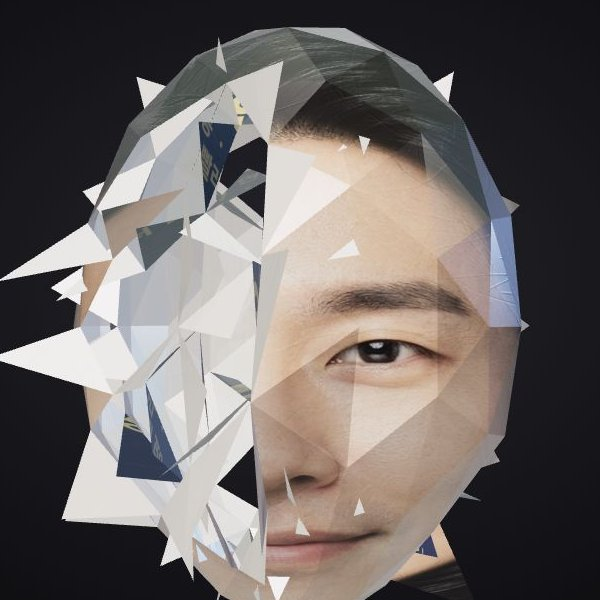
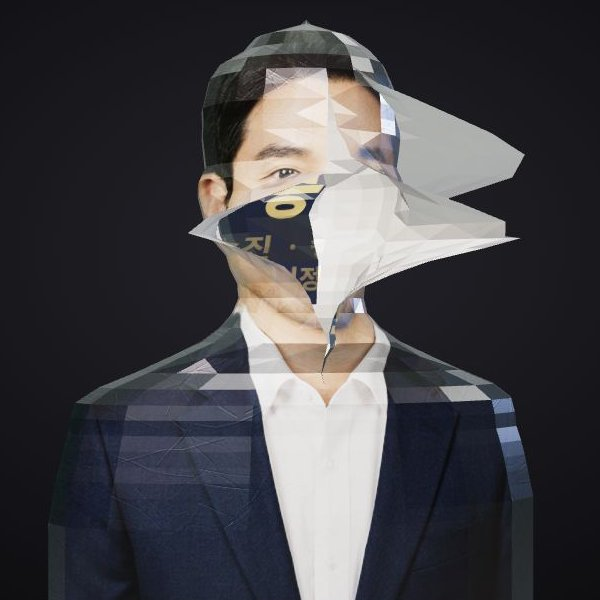
day-261119 상반신 흉상, 포장지를 한 장으로 말려 벗기기

diff --git a/day-261119/main.js b/day-261119/main.js
@@ -1,7 +1,8 @@
 import * as THREE from 'three';
 import { RoomEnvironment } from 'three/addons/environments/RoomEnvironment.js';
+import { PROFILE } from './bust.js?v=1';
 
-const VER = 3;
+const VER = 9;
 const PEOPLE = [
   { k: 'kr', who: '준호 · 32 · 서울', tint: '#1d2a44', ink: '#d9b765', words: ['승진', '인정', '연봉', '더 빨리', '증명'], core: '성공', en: 'SUCCESS' },
   { k: 'wa', who: '코피 · 64 · 아크라', tint: '#4a1a17', ink: '#e8c28a', words: ['이름', '약속', '가문', '부끄럼 없이', '지킨다'], core: '명예', en: 'HONOR' },
@@ -23,11 +24,12 @@ const rim = new THREE.DirectionalLight(0x9fb6ff, 1.2); rim.position.set(4, 1, -3
 scene.add(new THREE.AmbientLight(0xffffff, .25));
 const glow = new THREE.PointLight(0xffd9a0, 0, 4, 1.5); scene.add(glow);
 const head = new THREE.Group(); scene.add(head);
-glow.position.set(0, 0, .1); head.add(glow);
+glow.position.set(0, -.9, .05); head.add(glow);
 
+let baseDist = 8;
 function resize() {
   const w = innerWidth, h = innerHeight; renderer.setSize(w, h, false);
-  camera.aspect = w / h; camera.position.set(0, .05, w / h < .8 ? 8.2 : 5.3); camera.lookAt(0, -.02, 0); camera.updateProjectionMatrix();
+  camera.aspect = w / h; const t = Math.tan(14 * Math.PI / 180); baseDist = Math.max(2.15 / t, 1.55 / (t * camera.aspect)); camera.position.set(0, 0, baseDist); camera.lookAt(0, 0, 0); camera.updateProjectionMatrix();
 }
 addEventListener('resize', resize); resize();
 
@@ -58,41 +60,53 @@ function paperMat(map, opts = {}) {
   return m;
 }
 
-function shape(d) {
-  let x = d.x * .74, y = d.y, z = d.z * .86;
-  if (y < -.3) { const k = Math.min(1, (-y - .3) / .7); x *= 1 - k * .34; z *= 1 - k * .12; }
-  if (z > 0) {
-    const f = Math.min(1, z / .5);
-    z *= .93;
-    z += .2 * Math.exp(-(x * x) / .02 - ((y + .22) ** 2) / .05) * f;
-    z -= .07 * Math.exp(-((Math.abs(x) - .26) ** 2) / .012 - ((y + .02) ** 2) / .01) * f;
-    z += .05 * Math.exp(-(x * x) / .04 - ((y + .86) ** 2) / .02) * f;
+const HT = 3.6, WD = HT * 672 / 900, SEG = 20;
+function buildLayer(prof, inset, map, opts, isFace) {
+  const N = prof.length;
+  let neck = Infinity, neckI = 0;
+  for (let i = Math.floor(N * .2); i < Math.floor(N * .7); i++) if (prof[i][2] < neck) { neck = prof[i][2]; neckI = i; }
+  const top = prof[0][0], chin = prof[neckI][0], S = THREE.MathUtils.smoothstep;
+  const Y = yv => (HT / 2 - yv * HT) * (inset < 1 ? .955 : 1) - (inset < 1 ? .03 : 0);
+  const ring = prof.map(([yv, cx, hw], i) => {
+    const w0 = Math.max(.03, hw * WD), f = THREE.MathUtils.lerp(1.12, .42, S(hw, neck * 1.3, neck * 2.6));
+    return { y: Y(yv), c: (cx - .5) * WD, w0, w: w0 * inset, d: w0 * f * inset, v: 1 - yv, ht: i < neckI ? (yv - top) / (chin - top) : -1 };
+  });
+  const vert = (r, j) => {
+    const R = ring[r], ph = j / SEG * Math.PI * 2, sn = Math.sin(ph), cs = Math.cos(ph);
+    let z = R.d * cs;
+    if (R.ht > 0) z += .17 * inset * Math.exp(-(((R.ht - .6) / .1) ** 2)) * Math.max(0, cs) ** 30;
+    const p = new THREE.Vector3(R.c + R.w * sn, R.y, z);
+    let u = .5 + (R.c + R.w0 * sn) / WD, v = R.v;
+    if (isFace && R.ht >= 0) { const k = S(-cs, .05, .6); u = THREE.MathUtils.lerp(u, .5 + ring[0].c / WD, k); v = THREE.MathUtils.lerp(v, ring[0].v - .025, k); }
+    return [p, u, v, [r, j]];
+  };
+  const raw = [];
+  const tri = (A, B, C, hint, m) => raw.push([A, B, C, hint, m]);
+  for (let r = 0; r < N - 1; r++) for (let j = 0; j < SEG; j++) {
+    const a = vert(r, j), b = vert(r, j + 1), c = vert(r + 1, j + 1), d = vert(r + 1, j), ph = (j + .5) / SEG * Math.PI * 2, h = new THREE.Vector3(Math.sin(ph), 0, Math.cos(ph));
+    const m = { kind: 'side', r, j }; if ((r + j) % 2) { tri(a, d, b, h, m); tri(b, d, c, h, m); } else { tri(a, d, c, h, m); tri(a, c, b, h, m); }
   }
-  return new THREE.Vector3(x, y, z);
-}
-
-function buildLayer(scale, detail, map, opts) {
-  const ico = new THREE.IcosahedronGeometry(1, detail).toNonIndexed();
-  const P = ico.attributes.position, n = P.count, pos = new Float32Array(n * 3), uv = new Float32Array(n * 2), v = new THREE.Vector3();
-  for (let i = 0; i < n; i++) {
-    v.fromBufferAttribute(P, i).normalize();
-    const p = shape(v).multiplyScalar(scale);
-    pos.set([p.x, p.y, p.z], i * 3);
-    const q = p.clone().divideScalar(scale), back = THREE.MathUtils.smoothstep(-q.z, -.1, .45);
-    uv.set([.5 + q.x / 1.7, THREE.MathUtils.lerp(.52 + q.y * .465, .965, back)], i * 2);
-  }
+  const T0 = ring[0], TN = ring[N - 1];
+  const pole = [new THREE.Vector3(T0.c, T0.y + .03, 0), .5 + T0.c / WD, Math.min(.995, T0.v + .01), 'P'];
+  const base = [new THREE.Vector3(TN.c, TN.y, 0), .5 + TN.c / WD, TN.v, 'B'];
+  for (let j = 0; j < SEG; j++) { tri(pole, vert(0, j), vert(0, j + 1), new THREE.Vector3(0, 1, 0), { kind: 'pole', r: 0, j }); tri(base, vert(N - 1, j + 1), vert(N - 1, j), new THREE.Vector3(0, -1, 0), { kind: 'cap', r: N - 2, j }); }
+  const n = raw.length * 3, pos = new Float32Array(n * 3), uv = new Float32Array(n * 2), hints = [], keys = [];
+  raw.forEach(([A, B, C, h], t) => {
+    const nr = B[0].clone().sub(A[0]).cross(C[0].clone().sub(A[0]));
+    if (nr.dot(h) < 0) [B, C] = [C, B];
+    [A, B, C].forEach((q, j) => { pos.set([q[0].x, q[0].y, q[0].z], (t * 3 + j) * 3); uv.set([q[1], q[2]], (t * 3 + j) * 2); });
+    hints.push(h); keys.push([A[3], B[3], C[3]]);
+  });
   const g = new THREE.BufferGeometry();
   g.setAttribute('position', new THREE.BufferAttribute(pos, 3)); g.setAttribute('uv', new THREE.BufferAttribute(uv, 2));
-  const mesh = new THREE.Mesh(g, paperMat(map, opts));
-  const T = n / 3, tris = [];
-  const a = new THREE.Vector3(), b = new THREE.Vector3(), c = new THREE.Vector3();
-  for (let t = 0; t < T; t++) {
-    a.fromArray(pos, t * 9); b.fromArray(pos, t * 9 + 3); c.fromArray(pos, t * 9 + 6);
-    const cen = a.clone().add(b).add(c).divideScalar(3), nrm = b.clone().sub(a).cross(c.clone().sub(a)).normalize();
-    if (nrm.dot(cen) < 0) nrm.negate();
-    tris.push({ idx: t, cen, nrm, orig: pos.slice(t * 9, t * 9 + 9), t0: -1 });
-  }
-  return { mesh, tris, pos, scale, peeled: 0 };
+  const mesh = new THREE.Mesh(g, paperMat(map, opts)), scale = inset;
+  const S2 = SEG / 2;
+  const orig = ring.map((_, r) => Array.from({ length: SEG + 1 }, (_, j) => vert(r, j)[0]));
+  const tris = raw.map(([, , , , m], t) => ({ idx: t, ...m, side: m.j >= S2 ? 0 : 1, keys: keys[t], u: 0 }));
+  const cur = orig.map(row => row.map(p => p.clone()));
+  const uv2 = orig.map(() => new Float32Array(SEG + 1));
+  const P = Array.from({ length: N }, () => [0, 0]), Pd = Array.from({ length: N }, () => [0, 0]);
+  return { mesh, tris, pos, P, Pd, N, S2, orig, cur, uv2, pole: pole[0].clone(), base: base[0].clone(), curl: 1.35, curlGoal: 1.35, late: 0, ph: Math.random() * 6 };
 }
 
 function wordSheet(P) {
@@ -120,7 +134,7 @@ function coreSprite(P) {
   g.fillText(P.en.split('').join(' '), 512, 500);
   const t = new THREE.CanvasTexture(c); t.colorSpace = THREE.SRGBColorSpace;
   const s = new THREE.Sprite(new THREE.SpriteMaterial({ map: t, transparent: true, opacity: .25, depthWrite: false }));
-  s.scale.set(1.3, .76, 1); s.position.set(0, -.05, .12); return s;
+  s.scale.set(1.5, .88, 1); s.position.set(0, -.95, .02); return s;
 }
 
 let ac = null, noiseBuf = null, lastSnd = 0;
@@ -134,43 +148,50 @@ function rustle(gain = .5) {
   s.connect(f); f.connect(g); g.connect(ac.destination); s.start(t, Math.random() * .2, .18);
 }
 
-let L = [], core = null, cur = null, ending = 0, frontL1 = 1;
-const clock = new THREE.Clock(), q = new THREE.Quaternion(), tmp = new THREE.Vector3();
+let L = [], core = null, cur = null, ending = 0;
+const clock = new THREE.Clock();
 
-function peel(layer, t, from, delay = 0, fall = false) {
-  const tr = layer.tris[t]; if (tr.t0 >= 0) return false;
-  const o = tr.orig, V = [0, 1, 2].map(i => new THREE.Vector3(o[i * 3], o[i * 3 + 1], o[i * 3 + 2]));
-  let fi = 0, bd = Infinity;
-  V.forEach((p, i) => { const d = p.distanceTo(from); if (d < bd) { bd = d; fi = i; } });
-  const h0 = V[(fi + 1) % 3], h1 = V[(fi + 2) % 3], e = h1.clone().sub(h0).normalize();
-  if (e.clone().cross(V[fi].clone().sub(h0)).dot(tr.nrm) < 0) e.negate();
-  Object.assign(tr, { fi, h0, e, free: V[fi].clone().sub(h0), ang: 1.9 + Math.random() * .7, ph: Math.random() * 6.3, t0: clock.elapsedTime + delay, fall: fall ? clock.elapsedTime + delay + .55 + Math.random() * .35 : 0, spin: (Math.random() - .5) * 4 });
-  layer.peeled++;
-  return true;
+const ang = (a, b) => Math.atan2(a.x * b.z - a.z * b.x, a.x * b.x + a.z * b.z);
+function unroll(layer, r, s, time) {
+  const { orig, cur, uv2, Pd, S2 } = layer, O = orig[r], C = cur[r], U = uv2[r], p = Pd[r][s];
+  const step = s ? -1 : 1, end = s ? 0 : SEG;
+  const fu = k => { const df = s ? k : SEG - k; const u = THREE.MathUtils.clamp(p * (S2 + 1.5) - df, 0, 1); return u * u * (3 - 2 * u); };
+  let prev = O[S2].clone().sub(O[S2 - step]), acc = 0;
+  C[S2].copy(O[S2]);
+  for (let k = S2; k !== end; k += step) {
+    const e = O[k + step].clone().sub(O[k]), u = fu(k);
+    acc += ang(prev, e) * u * layer.curl * (k === S2 ? .5 : 1) + .015 * Math.sin(time * 1.2 + k * .7 + r * .3 + layer.ph) * u;
+    prev = e;
+    const c = Math.cos(-acc), sn = Math.sin(-acc);
+    C[k + step].set(C[k].x + e.x * c - e.z * sn, O[k + step].y, C[k].z + e.x * sn + e.z * c);
+    U[k + step] = fu(k + step);
+  }
+  U[S2] = 0;
 }
-
-function updateFlaps(time) {
+function updateSheets(dt, time) {
+  const k = 1 - Math.exp(-dt * 2.4);
   for (const layer of L) {
-    let dirty = false;
-    for (const tr of layer.tris) {
-      if (tr.t0 < 0) continue;
-      const u = Math.min(1, Math.max(0, (time - tr.t0) / .75));
-      const k = u - 1, ease = 1 + 2.4 * k * k * k + 1.4 * k * k;
-      const a = tr.ang * ease + (u > 0 ? .05 * Math.sin(time * 1.6 + tr.ph) * u : 0);
-      q.setFromAxisAngle(tr.e, a); tmp.copy(tr.free).applyQuaternion(q).add(tr.h0);
-      if (tr.fall && time > tr.fall) {
-        const s = time - tr.fall; if (s > 3) continue;
-        const o = tr.orig, c = tr.cen;
-        q.setFromAxisAngle(tr.e, tr.spin * s);
-        for (let j = 0; j < 3; j++) {
-          const p = j === tr.fi ? tmp.clone() : new THREE.Vector3(o[j * 3], o[j * 3 + 1], o[j * 3 + 2]);
-          p.sub(c).applyQuaternion(q).add(c).addScaledVector(tr.nrm, 1.1 * s); p.y -= 2.6 * s * s;
-          layer.pos.set([p.x, p.y, p.z], tr.idx * 9 + j * 3);
-        }
-      } else layer.pos.set([tmp.x, tmp.y, tmp.z], tr.idx * 9 + tr.fi * 3);
-      dirty = true;
+    const { P, Pd, N, cur } = layer;
+    if (layer.late && time > layer.late) { P.forEach((p, r) => { if (r < N - 1) p[0] = p[1] = 1; }); layer.curlGoal = 1; layer.late = 0; }
+    layer.curl += (layer.curlGoal - layer.curl) * k * .6;
+    for (let r = 0; r < N - 1; r++) for (let s = 0; s < 2; s++) {
+      const nb = ((P[r - 1] || P[r])[s] + P[r + 1][s]) * .5;
+      P[r][s] = Math.max(P[r][s], nb * .985);
+      Pd[r][s] += (P[r][s] - Pd[r][s]) * k;
     }
-    if (dirty) layer.mesh.geometry.attributes.position.needsUpdate = true;
+    for (let r = 0; r < N; r++) { unroll(layer, r, 0, time); unroll(layer, r, 1, time); }
+    const top = new THREE.Vector3(); cur[0].forEach(p => top.add(p)); top.divideScalar(SEG + 1); top.y = layer.pole.y;
+    for (const tr of layer.tris) {
+      let um = 0;
+      tr.keys.forEach((kk, j) => {
+        const q = kk === 'P' ? top : kk === 'B' ? layer.base : cur[kk[0]][kk[1]];
+        if (kk !== 'P' && kk !== 'B') um = Math.max(um, layer.uv2[kk[0]][kk[1]]);
+        layer.pos.set([q.x, q.y, q.z], tr.idx * 9 + j * 3);
+      });
+      tr.u = um;
+    }
+    layer.mesh.geometry.attributes.position.needsUpdate = true;
+    layer.mesh.geometry.computeBoundingSphere();
   }
 }
 
@@ -182,12 +203,11 @@ async function load(i) {
   [...ui.people.children].forEach((b, j) => b.classList.toggle('on', j === i));
   ui.who.textContent = P.who; ui.cap.classList.remove('end');
   await document.fonts.load(`900 100px 'Noto Serif KR'`, P.core); await document.fonts.load(`700 60px 'Noto Sans KR'`, P.words.join(''));
-  const face = await loader.loadAsync(`face-${P.k}.jpg?v=${VER}`); face.colorSpace = THREE.SRGBColorSpace; face.anisotropy = 8;
+  const face = await loader.loadAsync(`bust-${P.k}.jpg?v=${VER}`); face.colorSpace = THREE.SRGBColorSpace; face.anisotropy = 8;
   for (const l of L) { head.remove(l.mesh); l.mesh.geometry.dispose(); l.mesh.material.map?.dispose(); l.mesh.material.dispose(); }
   if (core) { head.remove(core); core.material.map.dispose(); core.material.dispose(); }
-  L = [buildLayer(1, 2, face), buildLayer(.84, 2, wordSheet(P), { iridescence: .55, roughness: .3 })];
+  L = [buildLayer(PROFILE[P.k], 1, face, {}, true), buildLayer(PROFILE[P.k], .84, wordSheet(P), { iridescence: .55, roughness: .3 }, false)];
   L.forEach(l => head.add(l.mesh));
-  frontL1 = L[1].tris.filter(t => t.cen.z > 0).length;
   core = coreSprite(P); head.add(core); glow.intensity = 0;
 }
 
@@ -198,24 +218,24 @@ document.getElementById('again').onclick = () => load(PEOPLE.indexOf(cur));
 
 function finale() {
   ending = clock.elapsedTime; ui.cap.classList.add('end');
-  const front = new THREE.Vector3(0, 0, 3);
-  for (const l of L) l.tris.forEach((tr, t) => { if (tr.cen.z > -.12 * l.scale && tr.t0 < 0) peel(l, t, front, .15 + Math.hypot(tr.cen.x, tr.cen.y + .1) * .9 + (l === L[1] ? .5 : 0), true); else if (tr.cen.z > -.12 * l.scale && !tr.fall) tr.fall = clock.elapsedTime + Math.random() * .5; });
+  L[0].late = ending + .05; L[1].late = ending + .9;
 }
 
 const ray = new THREE.Raycaster(), ndc = new THREE.Vector2();
 function pick(e) {
   ndc.set(e.clientX / innerWidth * 2 - 1, -(e.clientY / innerHeight) * 2 + 1); ray.setFromCamera(ndc, camera);
   for (const h of ray.intersectObjects(L.map(l => l.mesh), false)) {
-    const l = L.find(l => l.mesh === h.object);
-    if (l.tris[h.faceIndex].t0 < 0) return { l, t: h.faceIndex, p: head.worldToLocal(h.point.clone()) };
+    const l = L.find(l => l.mesh === h.object), tr = l.tris[h.faceIndex];
+    if (tr.kind !== 'cap' && tr.u < .3) return { l, tr };
   }
   return null;
 }
 function rub(hit) {
-  let n = 0;
-  hit.l.tris.forEach((tr, t) => { if (tr.cen.distanceTo(hit.p) < .17 * hit.l.scale && peel(hit.l, t, hit.p, Math.random() * .08)) n++; });
-  if (n) rustle(.4 + Math.min(.4, n * .08));
-  if (!ending && L[1].tris.filter(t => t.t0 >= 0 && t.cen.z > 0).length / frontL1 > .38) finale();
+  const { P, N } = hit.l, r0 = hit.tr.r, s = hit.tr.side;
+  for (let r = Math.max(0, r0 - 5); r <= Math.min(N - 2, r0 + 5); r++) P[r][s] = Math.min(1, P[r][s] + .09 * (1 - Math.abs(r - r0) / 6));
+  rustle(.35);
+  const L1 = L[1].P, m = L1.reduce((a, p) => a + p[0] + p[1], 0) / (L1.length * 2);
+  if (!ending && m > .24) finale();
 }
 
 let mode = null, lx = 0, ly = 0, yaw = 0, pitch = 0, idle = 0, lastRub = 0;
@@ -236,10 +256,11 @@ renderer.setAnimationLoop(() => {
   if (!mode && idle > 1.5) yaw += (Math.sin(time * .35) * .45 - yaw) * .01;
   head.rotation.set(pitch, yaw, 0);
   head.position.y = Math.sin(time * .8) * .03;
-  updateFlaps(time);
+  updateSheets(dt, time);
   if (core) {
-    const k = ending ? Math.min(1, (time - ending) / 2.2) : 0;
-    core.material.opacity = .25 + .75 * k; core.scale.set(1.3 * (1 + .12 * k), .76 * (1 + .12 * k), 1);
+    const k = ending ? Math.min(1, (time - ending) / 2.2) : 0, z = ending ? THREE.MathUtils.smoothstep(time - ending, .3, 3.5) : 0;
+    camera.position.z = baseDist * (1 + .6 * z);
+    core.material.opacity = .25 + .75 * k; core.scale.set(1.5 * (1 + .12 * k), .88 * (1 + .12 * k), 1);
     glow.intensity = 1.4 * k * (1 + .08 * Math.sin(time * 2.2));
   }
   renderer.render(scene, camera);

diff --git a/day-261119/bust.js b/day-261119/bust.js
@@ -1,0 +1,1 @@
+export const PROFILE = {"kr":[[0.075,0.5123,0.0045],[0.0967,0.5056,0.096],[0.1183,0.5128,0.1289],[0.1392,0.5017,0.1646],[0.1608,0.4983,0.1814],[0.1825,0.5011,0.1908],[0.2042,0.5,0.1975],[0.2258,0.5006,0.197],[0.2467,0.5011,0.1987],[0.2683,0.5011,0.1953],[0.29,0.5006,0.1914],[0.3117,0.5006,0.2059],[0.3325,0.4994,0.2048],[0.3542,0.5,0.1975],[0.3758,0.4994,0.1892],[0.3975,0.4989,0.1719],[0.4192,0.5022,0.1496],[0.44,0.5022,0.1417],[0.4617,0.5022,0.1272],[0.4833,0.5017,0.1244],[0.505,0.4989,0.1339],[0.5267,0.5,0.1596],[0.5475,0.5011,0.1987],[0.5692,0.5033,0.2679],[0.5908,0.505,0.3343],[0.6125,0.5045,0.4074],[0.6342,0.5011,0.4498],[0.655,0.5006,0.4581],[0.6767,0.5,0.4621],[0.6983,0.5011,0.471],[0.72,0.5017,0.4782],[0.7417,0.5011,0.4855],[0.7625,0.5011,0.4911],[0.7842,0.5022,0.4967],[0.8058,0.4994,0.4994],[0.8275,0.4994,0.4994],[0.8483,0.4994,0.4994],[0.87,0.4994,0.4994],[0.8917,0.4994,0.4994],[0.9133,0.4994,0.4994],[0.935,0.4994,0.4994],[0.9558,0.4994,0.4994],[0.9775,0.4994,0.4994],[0.9992,0.4994,0.4994]],"wa":[[0.135,0.4983,0.0162],[0.155,0.5028,0.0898],[0.175,0.5028,0.1256],[0.195,0.5033,0.1496],[0.215,0.5039,0.1635],[0.2358,0.5033,0.1719],[0.2558,0.5045,0.1763],[0.2758,0.5045,0.1786],[0.2958,0.5039,0.1791],[0.3158,0.5045,0.173],[0.3358,0.5033,0.1875],[0.3558,0.5033,0.1842],[0.3758,0.5039,0.1758],[0.3967,0.5033,0.1652],[0.4167,0.5045,0.1429],[0.4367,0.5039,0.1378],[0.4567,0.5039,0.1289],[0.4767,0.505,0.1211],[0.4967,0.5056,0.1183],[0.5167,0.5061,0.1166],[0.5367,0.5095,0.1758],[0.5567,0.5084,0.2494],[0.5775,0.5112,0.3036],[0.5975,0.5123,0.3549],[0.6175,0.5089,0.3917],[0.6375,0.5084,0.4169],[0.6575,0.5089,0.4386],[0.6775,0.5084,0.457],[0.6975,0.5095,0.4715],[0.7175,0.5095,0.4838],[0.7375,0.5067,0.4922],[0.7583,0.5017,0.4972],[0.7783,0.4994,0.4994],[0.7983,0.4994,0.4994],[0.8183,0.4994,0.4994],[0.8383,0.4994,0.4994],[0.8583,0.4994,0.4994],[0.8783,0.4994,0.4994],[0.8983,0.4994,0.4994],[0.9192,0.4994,0.4994],[0.9392,0.4994,0.4994],[0.9592,0.4994,0.4994],[0.9792,0.4994,0.4994],[0.9992,0.4994,0.4994]],"la":[[0.0467,0.5173,0.0039],[0.0692,0.5156,0.0737],[0.0908,0.519,0.0871],[0.1133,0.5173,0.0898],[0.135,0.5061,0.1122],[0.1575,0.5089,0.1406],[0.1792,0.5123,0.1607],[0.2017,0.5078,0.1719],[0.2242,0.5084,0.178],[0.2458,0.5078,0.1808],[0.2683,0.51,0.183],[0.29,0.5106,0.1869],[0.3125,0.5112,0.1998],[0.335,0.5106,0.2003],[0.3567,0.5106,0.1925],[0.3792,0.5089,0.1953],[0.4008,0.5089,0.1942],[0.4233,0.5117,0.1959],[0.445,0.5162,0.2003],[0.4675,0.5112,0.2132],[0.49,0.5084,0.2193],[0.5117,0.5067,0.2221],[0.5342,0.5028,0.2148],[0.5558,0.5095,0.2171],[0.5783,0.5045,0.24],[0.6008,0.5011,0.3348],[0.6225,0.505,0.3912],[0.645,0.5045,0.4141],[0.6667,0.5039,0.4302],[0.6892,0.5039,0.4414],[0.7108,0.5039,0.4492],[0.7333,0.5039,0.457],[0.7558,0.5033,0.4643],[0.7775,0.5028,0.4693],[0.8,0.5033,0.4732],[0.8217,0.5033,0.4766],[0.8442,0.5022,0.4799],[0.8667,0.5022,0.4821],[0.8883,0.5022,0.4855],[0.9108,0.5011,0.4877],[0.9325,0.5011,0.49],[0.955,0.5,0.4933],[0.9767,0.4994,0.495],[0.9992,0.4989,0.4967]],"no":[[0.1142,0.5061,0.0128],[0.135,0.4967,0.0882],[0.155,0.4994,0.1267],[0.1758,0.4955,0.1507],[0.1967,0.4955,0.1674],[0.2167,0.4955,0.1797],[0.2375,0.4933,0.1897],[0.2583,0.4933,0.1942],[0.2792,0.495,0.1959],[0.2992,0.4955,0.1987],[0.32,0.495,0.1936],[0.3408,0.4978,0.1897],[0.3608,0.4983,0.1814],[0.3817,0.4955,0.1786],[0.4025,0.4844,0.1797],[0.4225,0.4749,0.1691],[0.4433,0.4721,0.1674],[0.4642,0.4732,0.1562],[0.485,0.481,0.1339],[0.505,0.5006,0.1122],[0.5258,0.5006,0.1122],[0.5467,0.5006,0.1189],[0.5667,0.4994,0.1613],[0.5875,0.5006,0.2115],[0.6083,0.5028,0.2729],[0.6283,0.5028,0.3443],[0.6492,0.5,0.3906],[0.67,0.4989,0.4096],[0.6908,0.4978,0.423],[0.7108,0.4978,0.4319],[0.7317,0.4983,0.4392],[0.7525,0.4978,0.4464],[0.7725,0.4983,0.4526],[0.7933,0.4983,0.457],[0.8142,0.4989,0.4609],[0.8342,0.4983,0.4648],[0.855,0.4989,0.4676],[0.8758,0.4983,0.4715],[0.8967,0.4994,0.4738],[0.9167,0.4994,0.476],[0.9375,0.4994,0.4782],[0.9583,0.5,0.481],[0.9783,0.5,0.4833],[0.9992,0.5006,0.4849]],"in":[[0.0767,0.4933,0.0123],[0.0983,0.4955,0.1094],[0.1192,0.495,0.1479],[0.1408,0.4972,0.1713],[0.1625,0.5033,0.1931],[0.1842,0.5039,0.2026],[0.205,0.5028,0.2081],[0.2267,0.5028,0.2115],[0.2483,0.5045,0.2121],[0.27,0.5033,0.2087],[0.2908,0.505,0.2104],[0.3125,0.5045,0.2199],[0.3342,0.505,0.2171],[0.3558,0.5056,0.2087],[0.3767,0.5056,0.1998],[0.3983,0.5067,0.1931],[0.42,0.5006,0.1769],[0.4417,0.5056,0.1641],[0.4625,0.5056,0.1507],[0.4842,0.5084,0.1468],[0.5058,0.5095,0.159],[0.5275,0.5084,0.2026],[0.5483,0.51,0.2645],[0.57,0.5089,0.3248],[0.5917,0.5089,0.3862],[0.6133,0.5056,0.433],[0.6342,0.5056,0.4632],[0.6558,0.5045,0.481],[0.6775,0.5033,0.4944],[0.6992,0.4994,0.4994],[0.72,0.4994,0.4994],[0.7417,0.4994,0.4994],[0.7633,0.4994,0.4994],[0.785,0.4994,0.4994],[0.8058,0.4994,0.4994],[0.8275,0.4994,0.4994],[0.8492,0.4994,0.4994],[0.8708,0.4994,0.4994],[0.8917,0.4994,0.4994],[0.9133,0.4994,0.4994],[0.935,0.4994,0.4994],[0.9567,0.4994,0.4994],[0.9775,0.4994,0.4994],[0.9992,0.4994,0.4994]]};

diff --git a/day-261119/index.html b/day-261119/index.html
@@ -16,7 +16,7 @@
   #people button.on { color: #111; background: #ece8e1; border-color: #ece8e1; }
   #cap { position: fixed; left: 22px; bottom: 22px; font-size: 12px; letter-spacing: .08em; line-height: 1.7; opacity: .8; z-index: 2; pointer-events: none; }
   #again { position: fixed; right: 22px; bottom: 22px; background: transparent; color: #ece8e1; border: 1px solid rgba(236,232,225,.4); font: 12px 'IBM Plex Mono', monospace; letter-spacing: .1em; padding: 7px 12px; cursor: pointer; z-index: 2; }
-  @media (max-width: 639px) { #people { top: 38px; } #people button { padding: 4px 6px; font-size: 11px; } }
+  @media (max-width: 639px) { #people { top: 38px; } #people button { padding: 4px 6px; font-size: 10px; white-space: nowrap; } }
 </style>
 <script type="importmap">{ "imports": { "three": "https://cdn.jsdelivr.net/npm/three@0.170.0/build/three.module.js", "three/addons/": "https://cdn.jsdelivr.net/npm/three@0.170.0/examples/jsm/" } }</script>
 </head>
@@ -25,6 +25,6 @@
 <nav id="people"></nav>
 <div id="cap"><span id="who"></span></div>
 <button id="again">다시 싸기</button>
-<script type="module" src="main.js?v=3"></script>
+<script type="module" src="main.js?v=9"></script>
 </body>
 </html>

diff --git a/index.html b/index.html
@@ -452,7 +452,7 @@
     <div class="card-info">
       <div class="card-tag">day 261119 · wrapping paper</div>
       <div class="card-title">사람 포장지</div>
-      <div class="card-concept">서울·아크라·보고타·오슬로·자이푸르 다섯 사람의 얼굴을 반짝이는 종이접기 머리로 감싸 두고, 문질러 면을 벗길수록 속말이 드러나다 맨 안쪽에서 각자의 신념 한 단어가 나온다</div>
+      <div class="card-concept">서울·아크라·보고타·오슬로·자이푸르 다섯 사람의 상반신을 반짝이는 종이 포장지로 감싸 두고, 문지르면 포장지가 한 장으로 말려 벗겨지며 속말이 드러나고, 다 펼치면 전개도 위에 각자의 신념 한 단어가 남는다</div>
       <div class="card-bottom">
         <span>2026.11.19</span>
         <span class="bookmark" aria-hidden="true"></span>
